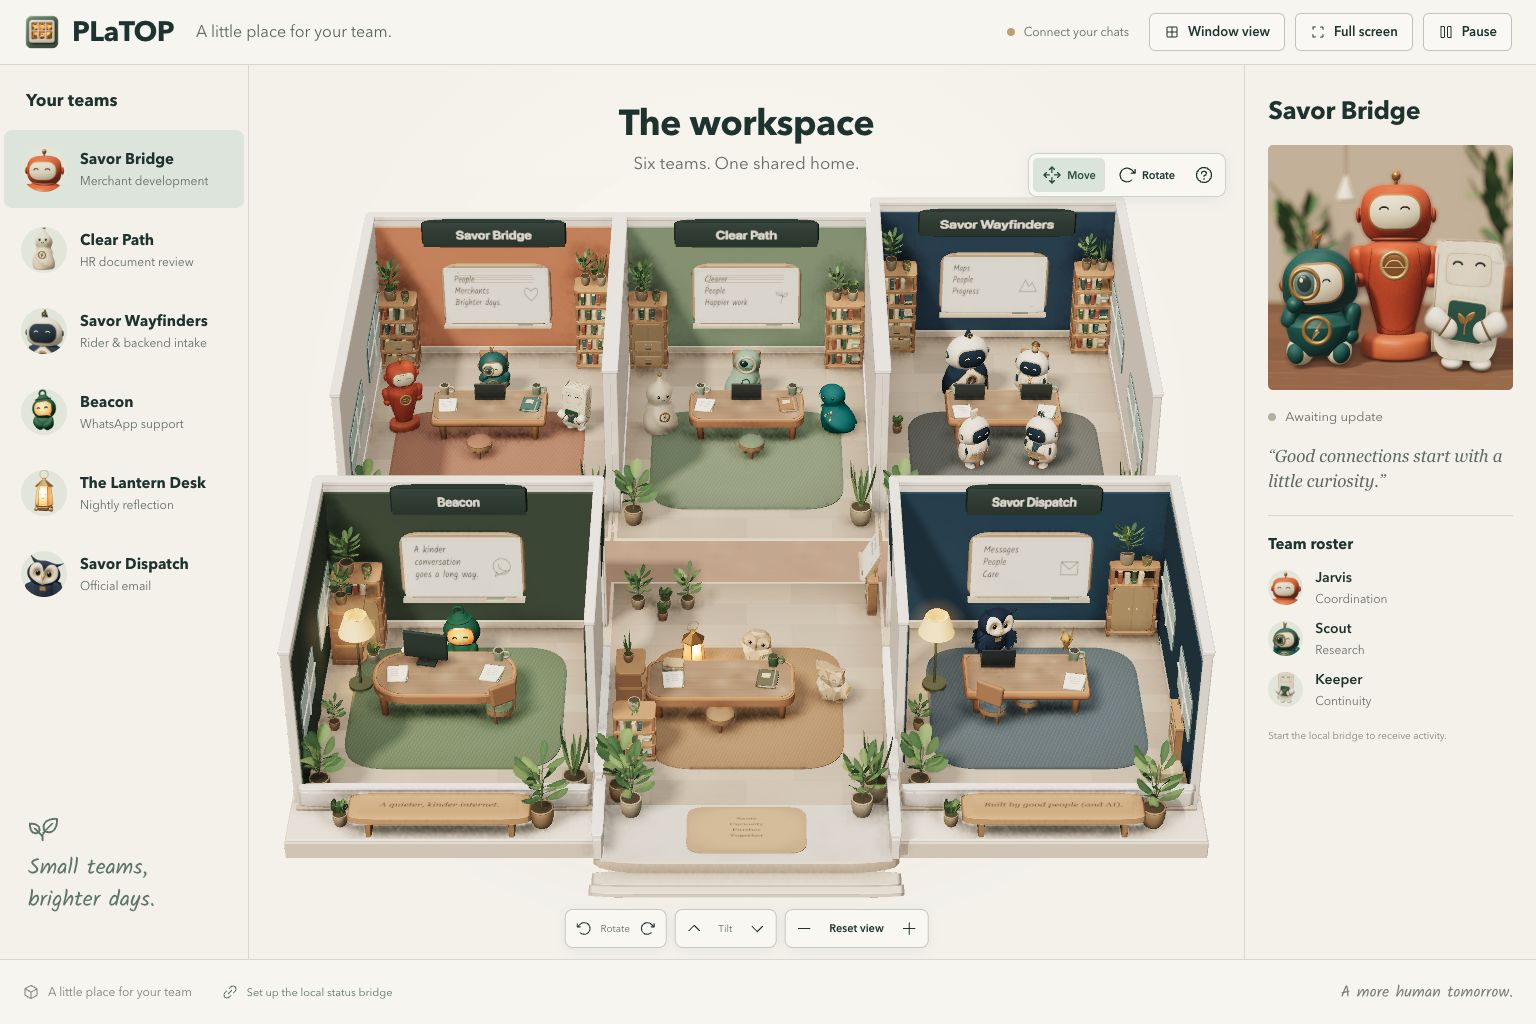
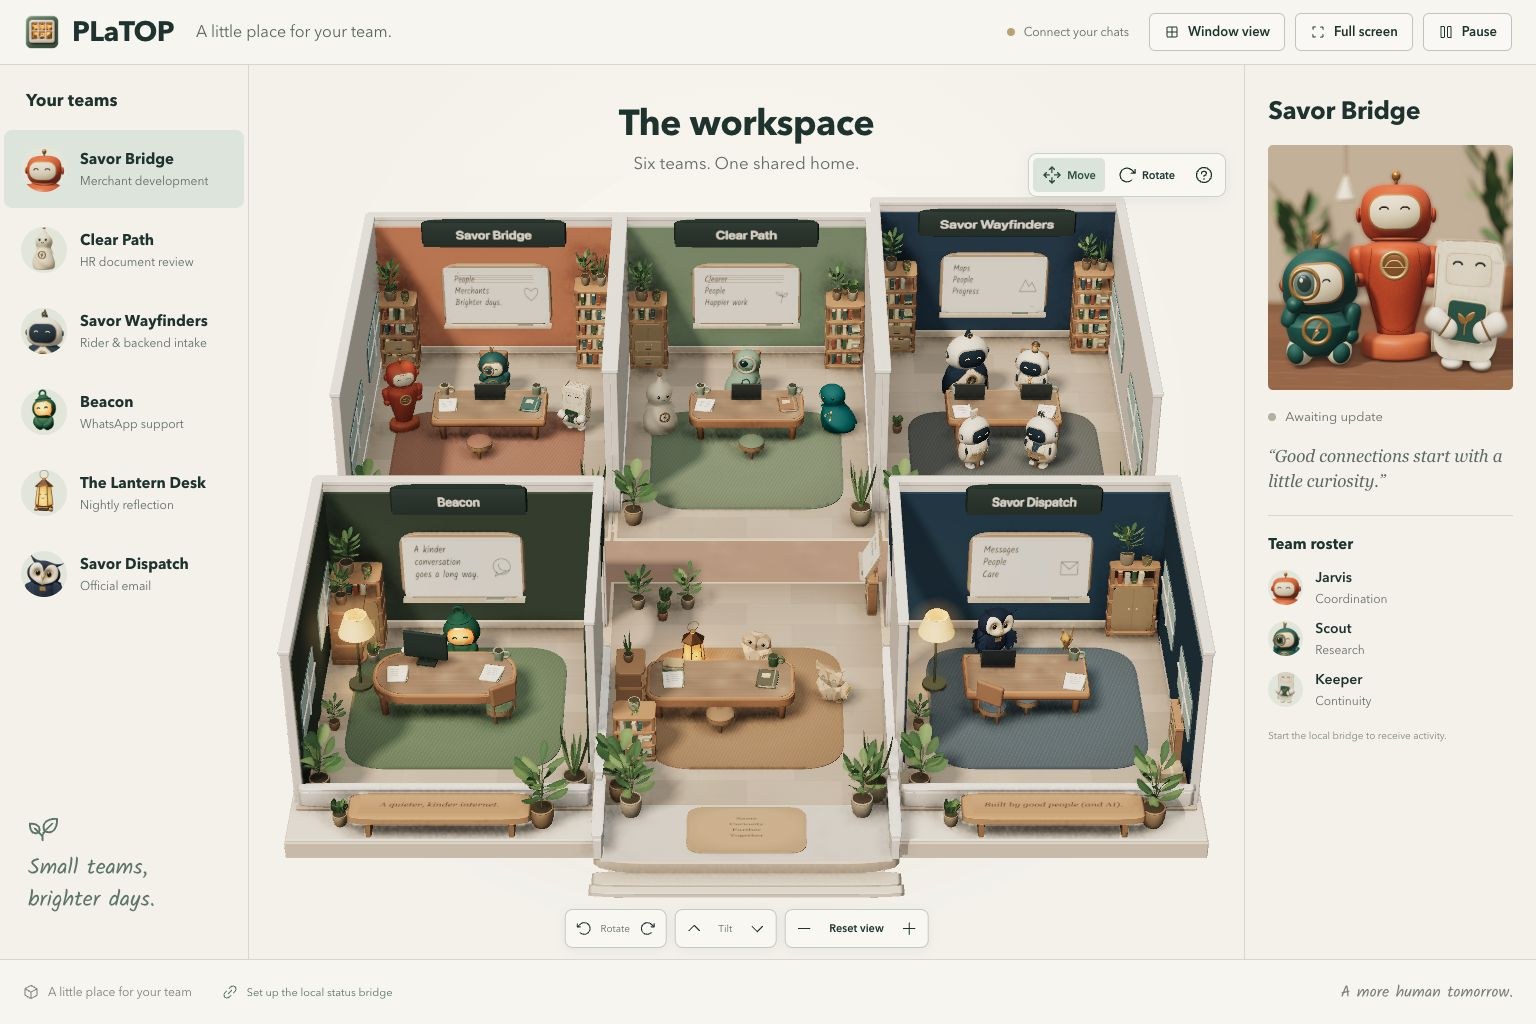
Apply initial noon lighting and verify actual scene setup

diff --git a/src/scene.ts b/src/scene.ts
@@ -163,6 +163,9 @@ export function createScene(host: HTMLElement, teams: Team[], onSelect: (id: str
     output.setBackdrop(...next.backdrop, next.dark ? next.backdrop[1] : '#c4c0aa');
     renderer.shadowMap.needsUpdate = true;
   }
+  // The first update can be exactly noon. Apply that profile now rather than
+  // marking noon current while the lights still contain constructor defaults.
+  updateDaylight();
   const kit = new SceneKit();
   const campus = makeCampus(kit);
   scene.add(campus);

diff --git a/docs/AVATAR-SURFACE-REVIEW.md b/docs/AVATAR-SURFACE-REVIEW.md
@@ -93,6 +93,7 @@ not asked for a desired score or instructed to approve.
 | 98 (fresh Reflection glass correction) | Craft 7.5 / fidelity 7.5; narrowly retained over 96 | Broad muted glow removes orange bands while preserving readable faces. Stop tuning the gradient; paper overlap depth and flat uniformly gold roof/frame are larger remaining material gaps |
 | 99 (fresh Reflection structural-metal review) | Craft 7.5 / fidelity 7.5; retained over 98 | Dark roof/frame/base separate from luminous panes and polished fittings without a paper-owl regression. The roof still partly reads as brown material; prioritize localized soft paper-overlap shadows, not more tiny metal adjustments |
 | 100 (fresh actual-scene contact review) | Campus craft 7.0 / fidelity 7.5; close craft approximately 7.5; retained | Short-range close AO replaces dirty pot-shadow clouds with compact contacts and improves books/mug grounding without losing owl folds. Campus lighting change is not confidently substantial; room-scale key-light shaping remains the priority |
+| 101 (fresh corrected-noon review) | Campus craft 7.0 / fidelity 7.5; retained | Slightly stronger depth beneath desks and around plants, readable faces and tabletop objects; night unchanged. Do not lower fill again: shape the key-light direction and soft cast-shadow transitions |
 
 Passes not listed were internal corrective iterations, not independent approvals.
 Pass 17 keeps pass 16's visible forms while reducing five-sided botanical stems
@@ -822,3 +823,12 @@ applied, so the first exact-noon update was skipped. The pass-100 noon image
 therefore does not establish its intended new daylight balance. The reviewer
 retains the independently visible close-AO cleanup; the initialization fix and
 fresh daylight comparison must follow separately.
+
+Pass 101 passes 328 tests/build. The real scene light-setup statements now apply
+noon before receiving the first state update; a regression test executes that
+initialization and checks the sky, ground, key, position, reflection and backdrop.
+Campus submits 55.30 fps (1.95 ms mean / 3.10 ms p95 CPU), Reflection close
+56.30 fps (1.99 / 3.30 ms), retaining pass 100's resource counts and timing
+limitations. Independent actual-image review retains the corrected noon result
+without raising its score. Current repository noon/night screenshots are now
+the matched 1536 × 1024 pass-101 captures. Portrait models remain pass 99.

diff --git a/design-qa.md b/design-qa.md
@@ -19,12 +19,12 @@ same model surfaces. Folded paper depth, feather winding, inset eye sockets,
 cape lining, Beacon's handle, rounded face aperture, foliage and wood finishes
 have been refined. No fake activity or observer authority was introduced.
 
-The pass-100 suite passes **327 tests** and the production build passes. Its
+The pass-101 suite passes **328 tests** and the production build passes. Its
 independent Reflection review remains **7.5 craft / 7.5 fidelity**, retaining
 the structural-metal separation but not granting A-level acceptance. Pass 100's
 actual-scene review retains localized close contacts at approximately 7.5 craft;
-campus remains 7.0 craft / 7.5 fidelity. Exact-noon lighting initialization needs
-the separately documented correction. The user's
+campus remains 7.0 craft / 7.5 fidelity. Pass 101 fixes and tests exact-noon
+lighting initialization; its independent visual score remains unchanged. The user's
 October 14 clarification preserves chosen identities; the campus reference
 sets rendering quality, not replacement character shapes. The
 existing bundle-size warning remains. Pass 49's matched full-face camera check
@@ -50,7 +50,7 @@ The targeted campus review remains **8.2/10**, with chair readability and hidden
 storage limiting the improvement. Pass 58's matched
 [noon](docs/images/surface-campus-noon.jpg) and
 [night](docs/images/surface-campus-night.jpg) capture locations now contain pass
-92, superseding the older campus evidence below. These refreshed captures do
+101, superseding the older campus evidence below. These refreshed captures do
 not establish a new independent campus score.
 Live agent actions remain the only source of work gestures and locomotion.
 
